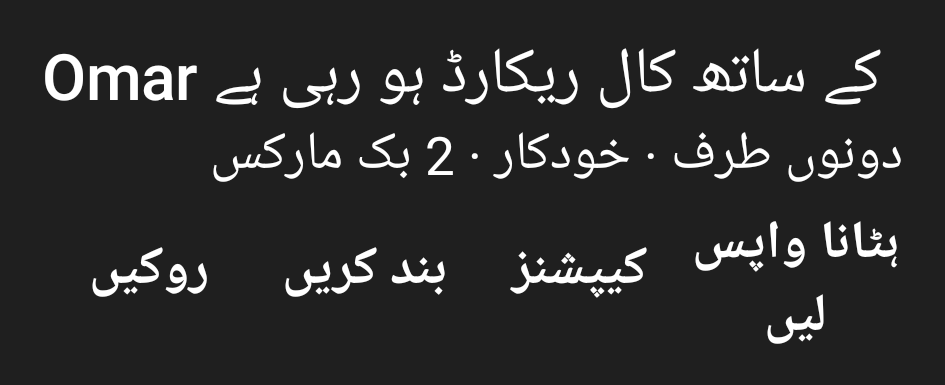
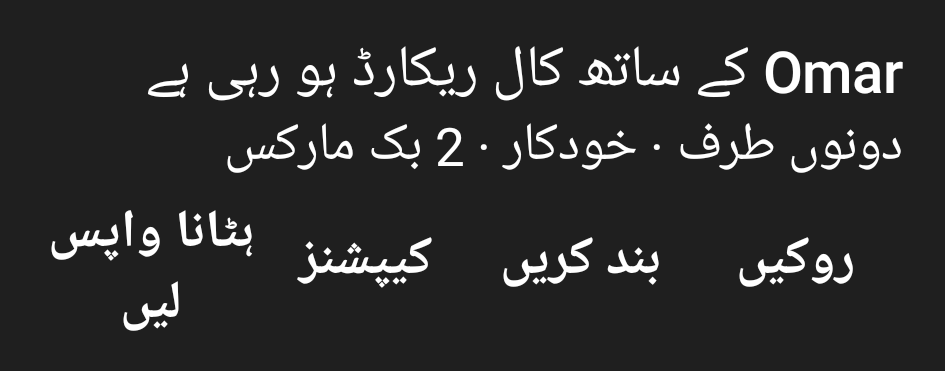
Parity 14 review: every Urdu notification line reads right to left, one that starts with a name too (a right-to-left mark in what is drawn only, never in words copied or shared); the recording notification's own view is laid out right to left in Urdu, Pause at the right; its text sizes are in sp, re

diff --git a/mobile/app/src/test/java/com/echoledger/mobile/notify/AppLanguageNoticesTest.kt b/mobile/app/src/test/java/com/echoledger/mobile/notify/AppLanguageNoticesTest.kt
@@ -90,11 +90,11 @@ class AppLanguageNoticesTest : AppTest() {
         assertEquals(emptyList<String>(), english)
         // A few exactly.
         val all = posted.flatMap { words(it) }
-        assertTrue("یہ ریکارڈنگ محفوظ کریں؟" in all)
-        assertTrue("رکی ہوئی · Omar کے ساتھ کال ریکارڈ ہو رہی ہے" in all)
-        assertTrue("دونوں طرف · خودکار · 2 بک مارکس" in all)
-        assertTrue("محفوظ · Omar کے ساتھ کال · 4:12" in all)
-        assertTrue("3 کال ریکارڈنگز لے آئی گئیں" in all)
+        assertTrue("\u200Fیہ ریکارڈنگ محفوظ کریں؟" in all)
+        assertTrue("\u200Fرکی ہوئی · Omar کے ساتھ کال ریکارڈ ہو رہی ہے" in all)
+        assertTrue("\u200Fدونوں طرف · خودکار · 2 بک مارکس" in all)
+        assertTrue("\u200Fمحفوظ · Omar کے ساتھ کال · 4:12" in all)
+        assertTrue("\u200F3 کال ریکارڈنگز لے آئی گئیں" in all)
     }
 
     @Test
@@ -155,16 +155,16 @@ class AppLanguageNoticesTest : AppTest() {
         Notifications.showSaveDecision(app, client, "Client", "keep")
         Notifications.savedWithUndo(app, titled)
         val all = shadowOf(manager).allNotifications.flatMap { words(it) }
-        assertTrue(all.toString(), "Client کے ساتھ کال · 4:12 · Client" in all)
-        assertTrue(all.toString(), "محفوظ · Bilal Traders weekly call · 4:12" in all)
+        assertTrue(all.toString(), "\u200FClient کے ساتھ کال · 4:12 · Client" in all)
+        assertTrue(all.toString(), "\u200Fمحفوظ · Bilal Traders weekly call · 4:12" in all)
         val recording = Notifications.recording(app, "Recording call with Client", "Microphone")
-        assertEquals("Client کے ساتھ کال ریکارڈ ہو رہی ہے", recording.extras.getCharSequence(Notification.EXTRA_TITLE).toString())
+        assertEquals("\u200FClient کے ساتھ کال ریکارڈ ہو رہی ہے", recording.extras.getCharSequence(Notification.EXTRA_TITLE).toString())
         val en = AppWords.resources(app, "en")
         val ur = AppWords.resources(app, "ur")
-        assertEquals("Client کے ساتھ کال", NoticeWords.say(ur, en, "Call with Client"))
-        assertEquals("Bilal Traders weekly call کال", NoticeWords.say(ur, en, "Bilal Traders weekly call call"))
+        assertEquals("\u200FClient کے ساتھ کال", NoticeWords.say(ur, en, "Call with Client"))
+        assertEquals("\u200FBilal Traders weekly call کال", NoticeWords.say(ur, en, "Bilal Traders weekly call call"))
         // The app's own words in a hole still are (a paused recording's state).
-        assertEquals("رکی ہوئی · Client کے ساتھ کال ریکارڈ ہو رہی ہے", NoticeWords.say(ur, en, "Paused · Recording call with Client"))
+        assertEquals("\u200Fرکی ہوئی · Client کے ساتھ کال ریکارڈ ہو رہی ہے", NoticeWords.say(ur, en, "Paused · Recording call with Client"))
     }
 
     /** The recording view's text as Android lays it out (its own layout, applied to a view). */
@@ -183,7 +183,13 @@ class AppLanguageNoticesTest : AppTest() {
         val largest = recordingTextSizes()
         // Each at 1.3 times the size its layout's style gives it on this phone (read, not assumed).
         assertTrue(phone.values.all { it > 0f })
-        assertEquals(Notifications.recordingTextPx(app), phone)
+        Notifications.recordingTextSp(app).forEach { (id, sp) ->
+            assertEquals(
+                android.util.TypedValue.applyDimension(android.util.TypedValue.COMPLEX_UNIT_SP, sp, app.resources.displayMetrics),
+                phone.getValue(id),
+                0.6f
+            )
+        }
         Notifications.RECORDING_TEXT_IDS.forEach { id -> assertEquals(phone.getValue(id) * 1.3f, largest.getValue(id), 0.6f) }
         // Its four buttons in the app language, Captions and Stop too.
         language("ur")
@@ -195,7 +201,7 @@ class AppLanguageNoticesTest : AppTest() {
             com.echoledger.mobile.R.id.rec_discard
         )
             .map { view.findViewById<android.widget.TextView>(it).text.toString() }
-        assertEquals(listOf("روکیں", "بند کریں", "کیپشنز", "ہٹائیں"), buttons)
+        assertEquals(listOf("روکیں", "بند کریں", "کیپشنز", "ہٹائیں").map { "\u200F$it" }, buttons)
     }
 
     @Test
@@ -213,5 +219,49 @@ class AppLanguageNoticesTest : AppTest() {
         val after = manager.getNotificationChannel(NotifyCategory.RECORDING.channelId)
         assertEquals(NotificationManager.IMPORTANCE_MIN, after.importance)
         assertTrue(after.shouldVibrate())
+    }
+
+    private fun rightToLeft(text: String) = !java.text.Bidi(text, java.text.Bidi.DIRECTION_DEFAULT_LEFT_TO_RIGHT).baseIsLeftToRight()
+
+    @Test
+    fun everyUrduLineReadsRightToLeftEvenWhenItStartsWithALatinName() {
+        language("ur")
+        postEverything()
+        val drawn = posted.flatMap { words(it) }
+        assertTrue(drawn.size > 40)
+        assertEquals(emptyList<String>(), drawn.filterNot(::rightToLeft))
+        // Lines that start with a name: right to left with the mark, as drawn (and the name kept as it was).
+        val call = Notifications.recording(
+            app,
+            "Recording call with Omar",
+            "Microphone"
+        ).extras.getCharSequence(Notification.EXTRA_TITLE).toString()
+        assertEquals("${NoticeWords.RLM}Omar کے ساتھ کال ریکارڈ ہو رہی ہے", call)
+        assertTrue(rightToLeft(call))
+        // Without the mark the same words would read left to right: the reason for it.
+        assertTrue(!rightToLeft(call.removePrefix(NoticeWords.RLM)))
+        // The recording view (the app's own layout) too, and it is laid out right to left with Pause at the right.
+        val view = Notifications.recording(
+            app,
+            "Recording call with Omar",
+            "Microphone"
+        ).bigContentView.apply(app, android.widget.FrameLayout(app))
+        val title = view.findViewById<android.widget.TextView>(com.echoledger.mobile.R.id.rec_title).text.toString()
+        assertTrue(rightToLeft(title))
+        assertEquals(android.view.View.LAYOUT_DIRECTION_RTL, view.layoutDirection)
+    }
+
+    @Test
+    fun theMarkIsOnlyInWhatIsDrawnNeverInWordsThatAreCopiedOrShared() {
+        language("ur")
+        val rec2 = rec.copy(callerName = "Omar")
+        // The English words the app copies, shares or sends (the card, the decision line, the device report) carry none.
+        assertTrue(Notifications.decisionText(rec2, "Acme").none { it == '\u200F' })
+        assertTrue(com.echoledger.mobile.overlay.DecisionPopup.title(rec2).none { it == '\u200F' })
+        assertTrue(Notifications.decisionText(AppWords.resources(app, "ur"), rec2, "Acme").none { it == '\u200F' })
+        // In English nothing is ever marked.
+        language("en")
+        postEverything()
+        assertTrue(posted.flatMap { words(it) }.none { it.contains('\u200F') })
     }
 }

diff --git a/mobile/app/src/main/java/com/echoledger/mobile/notify/Notifications.kt b/mobile/app/src/main/java/com/echoledger/mobile/notify/Notifications.kt
@@ -244,14 +244,19 @@ object Notifications {
         }
         // This view is the app's own layout: its text follows Settings › Appearance's text size (Android's own templates
         // can't; they keep the phone's).
+        // In sp, so the phone's own font size still applies when the shade draws it (a later font change too).
         recordingTextSize(context)?.let { scale ->
-            recordingTextPx(context).forEach { (id, px) ->
+            recordingTextSp(context).forEach { (id, sp) ->
                 buttons.setTextViewTextSize(
                     id,
-                    android.util.TypedValue.COMPLEX_UNIT_PX,
-                    px * scale
+                    android.util.TypedValue.COMPLEX_UNIT_SP,
+                    sp * scale
                 )
             }
+        }
+        // In Urdu the view reads right to left on any phone: the title and detail at the right, Pause on the right.
+        if (com.echoledger.mobile.notify.NoticeWords.isUrdu(com.echoledger.mobile.notify.AppWords.resources(context))) {
+            buttons.setInt(R.id.rec_root, "setLayoutDirection", android.view.View.LAYOUT_DIRECTION_RTL)
         }
         return NotificationCompat.Builder(context, CHANNEL_RECORDING)
             .setSmallIcon(R.drawable.ic_stat_rec)
@@ -295,21 +300,24 @@ object Notifications {
     internal val RECORDING_TEXT_IDS =
         listOf(R.id.rec_title, R.id.rec_detail, R.id.rec_pause, R.id.rec_stop, R.id.rec_captions, R.id.rec_discard)
 
-    private class TextPx(val config: android.content.res.Configuration, val px: Map<Int, Float>)
+    private class TextSp(val config: android.content.res.Configuration, val sp: Map<Int, Float>)
 
-    @Volatile private var textPx: TextPx? = null
+    @Volatile private var textSp: TextSp? = null
 
     /**
-     * The recording view's text sizes in px as its layout's styles give them on this phone (the notification styles,
-     * at the phone's own font size): the layout inflated once per configuration and read, never assumed.
+     * The recording view's text sizes in sp as its layout's styles give them (the notification styles): the layout
+     * inflated once per configuration and read, never assumed; at font size 1, as Android adds the phone's font size again.
      */
-    internal fun recordingTextPx(context: Context): Map<Int, Float> {
+    internal fun recordingTextSp(context: Context): Map<Int, Float> {
         val config = context.resources.configuration
-        textPx?.takeIf { it.config == config }?.let { return it.px }
-        val view = android.view.LayoutInflater.from(context).inflate(R.layout.notification_recording_actions, null)
-        val px = RECORDING_TEXT_IDS.associateWith { view.findViewById<android.widget.TextView>(it).textSize }
-        textPx = TextPx(android.content.res.Configuration(config), px)
-        return px
+        textSp?.takeIf { it.config == config }?.let { return it.sp }
+        // Read at the phone's font size 1 (sp = px / density there; Android scales larger fonts non-linearly).
+        val plain = context.createConfigurationContext(android.content.res.Configuration(config).apply { fontScale = 1f })
+        val view = android.view.LayoutInflater.from(plain).inflate(R.layout.notification_recording_actions, null)
+        val density = plain.resources.displayMetrics.density
+        val sp = RECORDING_TEXT_IDS.associateWith { view.findViewById<android.widget.TextView>(it).textSize / density }
+        textSp = TextSp(android.content.res.Configuration(config), sp)
+        return sp
     }
 
     /** Settings › Appearance's text size for the recording view; null at the phone's own size (the layout's styles stay). */
@@ -386,7 +394,7 @@ object Notifications {
         )
         // In the app language; the person's own words (names, the project) go in as they are.
         val words = com.echoledger.mobile.notify.AppWords.resources(context)
-        val text = decisionText(words, rec, clientName)
+        val text = com.echoledger.mobile.notify.NoticeWords.drawn(words, decisionText(words, rec, clientName))
         val public = NotificationCompat.Builder(context, CHANNEL_DECISIONS)
             .setSmallIcon(R.drawable.ic_stat_rec)
             .setContentTitle(com.echoledger.mobile.notify.NoticeWords.say(context, "Save this recording?"))
@@ -442,7 +450,7 @@ object Notifications {
             // The title as the person named it, or the app's words for the call, in the app language.
             .setContentTitle(
                 com.echoledger.mobile.notify.AppWords.resources(context).let {
-                    it.getString(R.string.n_saved, recordingTitle(it, rec), duration)
+                    com.echoledger.mobile.notify.NoticeWords.drawn(it, it.getString(R.string.n_saved, recordingTitle(it, rec), duration))
                 }
             )
             .setCategory(NotificationCompat.CATEGORY_STATUS)
@@ -485,7 +493,10 @@ object Notifications {
             // The title as the person named it, or the app's words for the call, in the app language.
             .setContentTitle(
                 com.echoledger.mobile.notify.AppWords.resources(context).let {
-                    it.getString(R.string.n_discarded, recordingTitle(it, rec), duration)
+                    com.echoledger.mobile.notify.NoticeWords.drawn(
+                        it,
+                        it.getString(R.string.n_discarded, recordingTitle(it, rec), duration)
+                    )
                 }
             )
             .setCategory(NotificationCompat.CATEGORY_STATUS)

diff --git a/mobile/app/src/main/java/com/echoledger/mobile/notify/NoticeWords.kt b/mobile/app/src/main/java/com/echoledger/mobile/notify/NoticeWords.kt
@@ -70,9 +70,22 @@ object NoticeWords {
     /** [english] in the app language (the person's, from [context]). */
     fun say(context: Context, english: String?): String = say(AppWords.resources(context), AppWords.resources(context, "en"), english)
 
-    /** [english] in [res]'s language; [en] are the English resources. Lines this table doesn't know stay as they are. */
-    fun say(res: Resources, en: Resources, english: String?): String {
-        val text = english.orEmpty()
+    /** The right-to-left mark: an Urdu line drawn with it reads right to left even when it starts with a Latin name. */
+    const val RLM = "\u200F"
+
+    /**
+     * [text] as Android should draw it in [res]'s language: in Urdu it starts with [RLM], since Android takes a line's
+     * direction from its first letter ("Omar کے ساتھ کال" would read left to right) and lays it out in the phone's
+     * direction. Only for what a notification draws: words that are copied or shared never get the mark.
+     */
+    fun drawn(res: Resources, text: String): String = if (isUrdu(res) && text.isNotEmpty() && !text.startsWith(RLM)) RLM + text else text
+
+    /** [english] in [res]'s language, as drawn ([drawn]); [en] are the English resources. Lines it doesn't know stay as they are. */
+    fun say(res: Resources, en: Resources, english: String?): String = drawn(res, words(res, en, english))
+
+    /** [english] in [res]'s language, without the drawing mark. */
+    private fun words(res: Resources, en: Resources, english: String?): String {
+        val text = english.orEmpty().removePrefix(RLM)
         if (text.isEmpty() || !isUrdu(res)) return text
         val known = lines(en)
         known.firstOrNull { it.exact == text }?.let { return res.getString(it.id) }
@@ -85,13 +98,13 @@ object NoticeWords {
             val args: List<Any> = m.groupValues.drop(1).mapIndexed { i, v ->
                 when {
                     i + 1 in line.numbers -> v.toIntOrNull() ?: v
-                    line.id in appWordHoles -> say(res, en, v)
+                    line.id in appWordHoles -> words(res, en, v)
                     else -> v
                 }
             }
             return res.getString(line.id, *args.toTypedArray())
         }
-        return if (text.contains(PARTS)) text.split(PARTS).joinToString(PARTS) { say(res, en, it) } else text
+        return if (text.contains(PARTS)) text.split(PARTS).joinToString(PARTS) { words(res, en, it) } else text
     }
 
     /** Whether the table has words for [english] (tests: every line the app can post). */
@@ -119,7 +132,13 @@ object NoticeWords {
             }
         } ?: problem.detail
         val fix = problem.fix?.let { res.getString(com.echoledger.mobile.ui.v2.setup.HealthChecks.fixLabel(it)) }
-        return Triple(res.getString(R.string.n_calls_not_recorded, res.getString(fail)), why, fix)
+        return Triple(
+            drawn(res, res.getString(R.string.n_calls_not_recorded, res.getString(fail))),
+            drawn(res, why),
+            fix?.let {
+                drawn(res, it)
+            }
+        )
     }
 
     /** A notification channel's name and line in the app language. */
@@ -150,5 +169,5 @@ object NoticeWords {
         NotifyCategory.LIVE_TRANSLATE -> R.string.c_live_translate_t to R.string.c_live_translate_b
         NotifyCategory.UPDATES -> R.string.c_updates_t to R.string.c_updates_b
         NotifyCategory.OTHER -> R.string.c_other_t to R.string.c_other_b
-    }.let { (title, line) -> res.getString(title) to res.getString(line) }
+    }.let { (title, line) -> drawn(res, res.getString(title)) to drawn(res, res.getString(line)) }
 }

diff --git a/mobile/app/src/test/java/com/echoledger/mobile/notify/RecordingNoticeShotsTest.kt b/mobile/app/src/test/java/com/echoledger/mobile/notify/RecordingNoticeShotsTest.kt
@@ -85,7 +85,7 @@ class RecordingNoticeShotsTest : AppTest() {
         for (dark in listOf(false, true)) {
             RuntimeEnvironment.setQualifiers(if (dark) "+night" else "+notnight")
             val view = drawn()
-            assertEquals("ہٹانا واپس لیں", view.findViewById<TextView>(R.id.rec_discard).text.toString())
+            assertEquals("${NoticeWords.RLM}ہٹانا واپس لیں", view.findViewById<TextView>(R.id.rec_discard).text.toString())
             assertNothingClipped(view)
             // Taller than the 48 dp the row used to be fixed at, as its words need.
             val row = view.findViewById<TextView>(R.id.rec_discard).parent as View
@@ -111,5 +111,42 @@ class RecordingNoticeShotsTest : AppTest() {
             after.configuration.uiMode and android.content.res.Configuration.UI_MODE_NIGHT_MASK ==
                 android.content.res.Configuration.UI_MODE_NIGHT_YES
         )
+    }
+
+    private fun left(view: View, id: Int): Int = IntArray(2).also { view.findViewById<View>(id).getLocationInWindow(it) }[0]
+
+    @Test
+    fun inUrduOnAnEnglishPhonePauseIsOnTheRightAndInEnglishOnTheLeft() {
+        largestUrdu()
+        val urdu = drawn()
+        assertTrue(left(urdu, R.id.rec_pause) > left(urdu, R.id.rec_discard))
+        assertTrue(left(urdu, R.id.rec_stop) > left(urdu, R.id.rec_captions))
+        runBlocking { app.graph.settings.update { it.copy(appLanguage = "en") } }
+        pumpUntil("English") { app.graph.liveSettings.value?.appLanguage == "en" }
+        val english = drawn()
+        assertTrue(left(english, R.id.rec_pause) < left(english, R.id.rec_discard))
+    }
+
+    @Test
+    fun aPhoneFontChangeReachesTheViewWithoutBuildingItAgain() {
+        largestUrdu()
+        val notification = Notifications.recording(app, "Recording call with Omar", "Microphone")
+        fun titlePx(): Float {
+            val view = notification.bigContentView.apply(app, FrameLayout(app))
+            return view.findViewById<TextView>(R.id.rec_title).textSize
+        }
+        fun expected(): Float = android.util.TypedValue.applyDimension(
+            android.util.TypedValue.COMPLEX_UNIT_SP,
+            Notifications.recordingTextSp(app).getValue(R.id.rec_title) * 1.3f,
+            app.resources.displayMetrics
+        )
+        val before = titlePx()
+        assertEquals(expected(), before, 0.6f)
+        // The phone's font goes up after the notification was posted: the same notification draws larger, as Android
+        // draws that size at the new font (it scales large fonts non-linearly).
+        RuntimeEnvironment.setFontScale(1.5f)
+        val after = titlePx()
+        assertTrue("$after > $before", after > before + 1f)
+        assertEquals(expected(), after, 0.6f)
     }
 }
